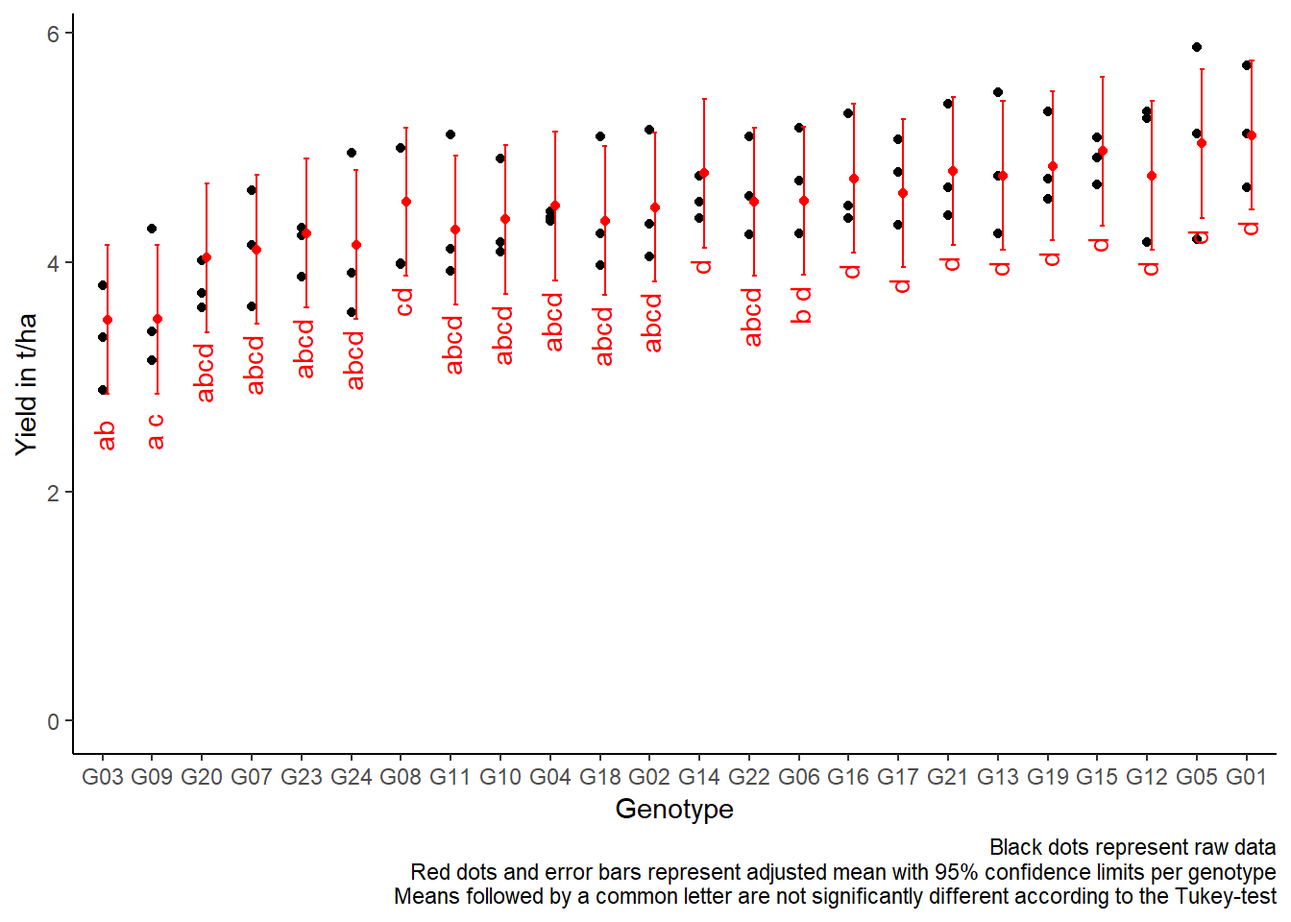
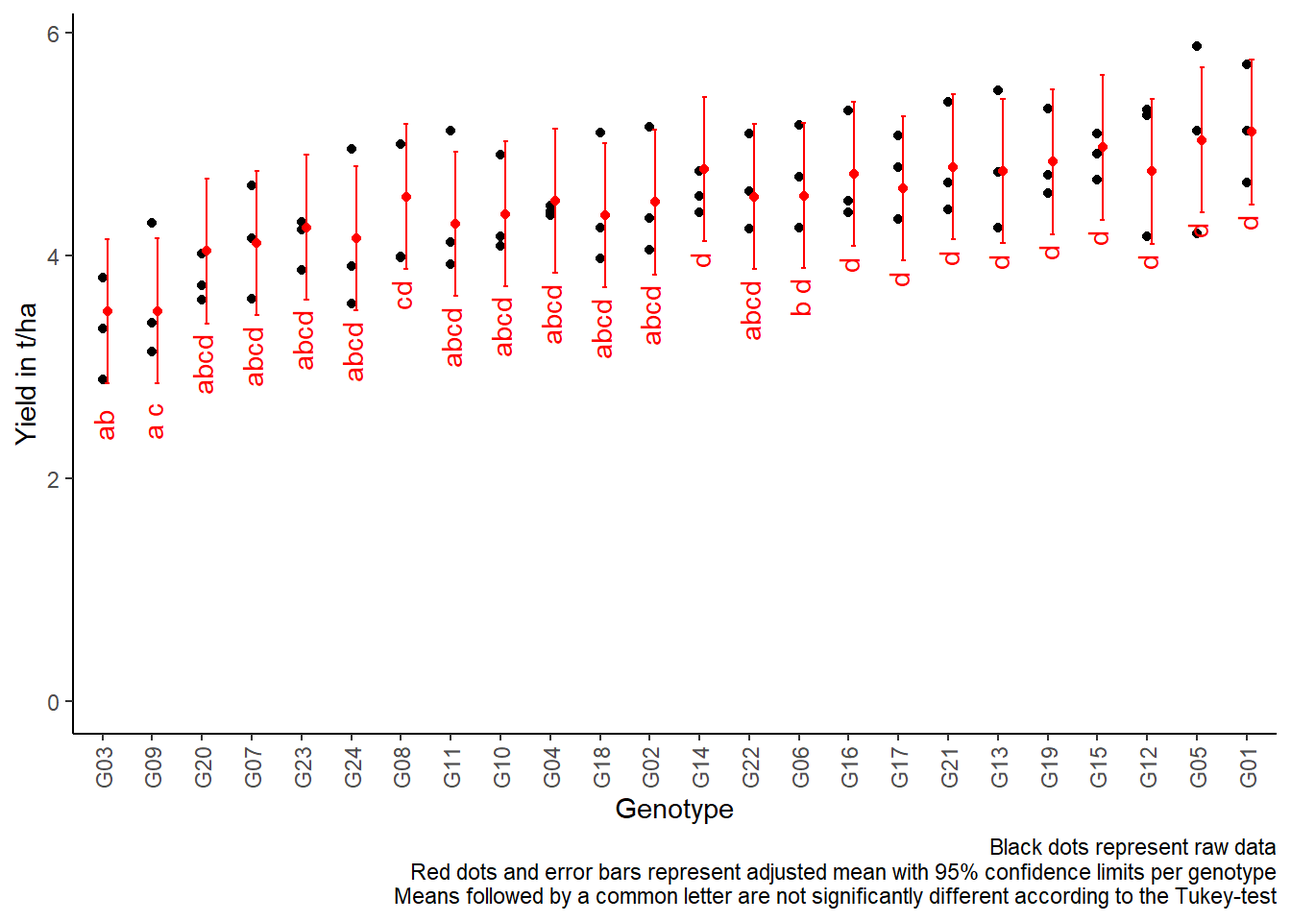
uniform wording ANOVAs

diff --git a/subsampling_Piepho1997.html b/subsampling_Piepho1997.html
@@ -632,7 +632,7 @@ div.tocify {
 <a class="sourceLine" id="cb1-2" title="2">pacman<span class="op">::</span><span class="kw">p_load</span>(readr, tidyverse, forcats, <span class="co"># data import and handling</span></a>
 <a class="sourceLine" id="cb1-3" title="3">               lme4, lmerTest,            <span class="co"># linear mixed model </span></a>
 <a class="sourceLine" id="cb1-4" title="4">               emmeans, multcomp,         <span class="co"># mean comparisons</span></a>
-<a class="sourceLine" id="cb1-5" title="5">               ggplot2, desplot)          <span class="co"># plots</span></a></code></pre></div>
+<a class="sourceLine" id="cb1-5" title="5">               ggplot2, desplot, see)     <span class="co"># plots</span></a></code></pre></div>
 <div id="data" class="section level1">
 <h1>Data</h1>
 <p>This example is taken from Chapter <em>“4.1 The sorghum experiment”</em> of the course material <a href="https://www.uni-hohenheim.de/en/module-catalogue/lehrveranstaltung/mixed-models-for-metric-data-3402-451" target="_blank">“Mixed models for metric data (3402-451)”</a> by <a href="https://www.uni-hohenheim.de/organisation?tx_base_lsfcontentadmin%5BlsfPerson%5D=6257" target="_blank">Prof. Dr. Hans-Peter Piepho</a>. It considers data published in <a href="https://acsess.onlinelibrary.wiley.com/doi/abs/10.2134/agronj1997.00021962008900050002x" target="_blank">Piepho (1997)</a> from a greenhouse experiment with sorghum, three intensities of double use of grain and leaves were tested: (1) control (grain only) <code>Ctrl</code>; (2) removal of all leaves except top leaf <code>Top1</code>; (3) removal of all leaves except top six leaves <code>Top6</code>.</p>
@@ -664,6 +664,93 @@ div.tocify {
 <div class="sourceCode" id="cb4"><pre class="sourceCode r"><code class="sourceCode r"><a class="sourceLine" id="cb4-1" title="1">dat &lt;-<span class="st"> </span>dat <span class="op">%&gt;%</span><span class="st"> </span></a>
 <a class="sourceLine" id="cb4-2" title="2"><span class="st">  </span><span class="kw">mutate_at</span>(<span class="kw">vars</span>(treat, block, plant), as.factor) <span class="op">%&gt;%</span><span class="st"> </span></a>
 <a class="sourceLine" id="cb4-3" title="3"><span class="st">  </span><span class="kw">mutate</span>(<span class="dt">treat =</span> <span class="kw">fct_relevel</span>(treat, <span class="kw">c</span>(<span class="st">&quot;Ctrl&quot;</span>, <span class="st">&quot;Top6&quot;</span>, <span class="st">&quot;Top1&quot;</span>)))</a></code></pre></div>
+</div>
+<div id="exploring" class="section level2">
+<h2>Exploring</h2>
+<p>In order to obtain a layout of the trial, we can use the <code>desplot()</code> function. Notice that for this we need two data columns that identify the <code>row</code> and <code>column</code> of each plot in the trial. In addition, we I would like to manually choose colors for the three treatments here and stick to them throughout the example:</p>
+<div class="sourceCode" id="cb5"><pre class="sourceCode r"><code class="sourceCode r"><a class="sourceLine" id="cb5-1" title="1">treat_colors &lt;-<span class="st"> </span><span class="kw">c</span>(<span class="dt">Ctrl=</span><span class="st">&quot;seagreen&quot;</span>, <span class="dt">Top6=</span><span class="st">&quot;seagreen3&quot;</span> , <span class="dt">Top1=</span><span class="st">&quot;seagreen2&quot;</span>)</a>
+<a class="sourceLine" id="cb5-2" title="2"></a>
+<a class="sourceLine" id="cb5-3" title="3"><span class="kw">desplot</span>(<span class="dt">data =</span> dat, <span class="dt">flip =</span> <span class="ot">TRUE</span>,</a>
+<a class="sourceLine" id="cb5-4" title="4">  <span class="dt">form =</span> treat <span class="op">~</span><span class="st"> </span>col <span class="op">+</span><span class="st"> </span>row <span class="op">|</span><span class="st"> </span>block,</a>
+<a class="sourceLine" id="cb5-5" title="5">  <span class="dt">col.regions =</span> treat_colors,</a>
+<a class="sourceLine" id="cb5-6" title="6">  <span class="dt">main =</span> <span class="st">&quot;Trial layout&quot;</span>, <span class="dt">show.key =</span> <span class="ot">TRUE</span>)</a></code></pre></div>
+<p><img src="subsampling_Piepho1997_files/figure-html/unnamed-chunk-5-1.png" width="672" /></p>
+<p>Looking at this, it seems like the trial was laid out as a randomized complete block design with 4 complete blocks. This, however, would mean that we have 3x4=12 observations in our dataset. Yet, our dataset has 120 observations.</p>
+<p>This is because what we are looking at in the plot above are only the 12 trays laid on the 4 tables that stood in the greenhouse. On top of each tray were 10 separate sorghum plant pots, respectively. To make this clear, we can plot this trial again as:</p>
+<div class="sourceCode" id="cb6"><pre class="sourceCode r"><code class="sourceCode r"><a class="sourceLine" id="cb6-1" title="1">treat_colors &lt;-<span class="st"> </span><span class="kw">c</span>(<span class="dt">Ctrl=</span><span class="st">&quot;seagreen&quot;</span>, <span class="dt">Top6=</span><span class="st">&quot;seagreen3&quot;</span> , <span class="dt">Top1=</span><span class="st">&quot;seagreen2&quot;</span>)</a>
+<a class="sourceLine" id="cb6-2" title="2"></a>
+<a class="sourceLine" id="cb6-3" title="3"><span class="kw">desplot</span>(<span class="dt">data =</span> dat, <span class="dt">flip =</span> <span class="ot">TRUE</span>,</a>
+<a class="sourceLine" id="cb6-4" title="4">  <span class="dt">form =</span> treat <span class="op">~</span><span class="st"> </span>col <span class="op">+</span><span class="st"> </span>row <span class="op">|</span><span class="st"> </span>block,</a>
+<a class="sourceLine" id="cb6-5" title="5">  <span class="dt">text =</span> plant, <span class="dt">cex =</span> <span class="dv">1</span>,</a>
+<a class="sourceLine" id="cb6-6" title="6">  <span class="dt">out1 =</span> treat, </a>
+<a class="sourceLine" id="cb6-7" title="7">  <span class="dt">out2 =</span> plant, <span class="dt">out2.gpar=</span><span class="kw">list</span>(<span class="dt">col=</span><span class="st">&quot;darkgrey&quot;</span>),</a>
+<a class="sourceLine" id="cb6-8" title="8">  <span class="dt">col.regions =</span> treat_colors,</a>
+<a class="sourceLine" id="cb6-9" title="9">  <span class="dt">main =</span> <span class="st">&quot;Trial layout&quot;</span>, <span class="dt">show.key =</span> <span class="ot">TRUE</span>)</a></code></pre></div>
+<p><img src="subsampling_Piepho1997_files/figure-html/unnamed-chunk-6-1.png" width="672" /></p>
+<p>At this point we must realize that there is an important difference between this trial and a regular RCBD (randomized complete block design) trial (<a href="RCBD_ClewerScarisbrick2001.html">like this one</a>). It is important to reflect that trays, not pots, are the randomization units. Clearly, pots are pseudo-replications, while trays are true replications. Another way of looking at the experiment is to consider plots (or measurements taken on pots) as repeated measurements on the same experimental unit (tray).</p>
+</div>
+<div id="plot" class="section level2">
+<h2>Plot</h2>
+<p>We can also create a plot to get a better feeling for the data. We here use the <code>geom_violindot()</code> extension to <code>ggplot2</code> from the <code>see</code> package as an alternative to boxplots.</p>
+<div class="sourceCode" id="cb7"><pre class="sourceCode r"><code class="sourceCode r"><a class="sourceLine" id="cb7-1" title="1"><span class="kw">ggplot</span>(<span class="dt">data =</span> dat, </a>
+<a class="sourceLine" id="cb7-2" title="2">       <span class="kw">aes</span>(<span class="dt">y=</span>TKW, <span class="dt">x=</span>treat, <span class="dt">fill=</span>treat)) <span class="op">+</span></a>
+<a class="sourceLine" id="cb7-3" title="3"><span class="st">  </span><span class="kw">geom_violindot</span>(<span class="dt">fill_dots =</span> <span class="st">&quot;black&quot;</span>, <span class="dt">size_dots =</span> <span class="dv">15</span>) <span class="op">+</span></a>
+<a class="sourceLine" id="cb7-4" title="4"><span class="st">  </span><span class="kw">scale_fill_manual</span>(<span class="dt">values =</span> treat_colors) <span class="op">+</span></a>
+<a class="sourceLine" id="cb7-5" title="5"><span class="st">  </span><span class="kw">ylim</span>(<span class="dv">0</span>, <span class="ot">NA</span>) <span class="op">+</span></a>
+<a class="sourceLine" id="cb7-6" title="6"><span class="st">  </span><span class="kw">theme_modern</span>()</a></code></pre></div>
+<p><img src="subsampling_Piepho1997_files/figure-html/unnamed-chunk-7-1.png" width="672" /></p>
+</div>
+</div>
+<div id="modelling" class="section level1">
+<h1>Modelling</h1>
+<p>Because of the way that 10 plants with the same treatment always stand together on a tray, our model ignores the fact that plants from the same tray will be correlated due to common environmental conditions. Clearly, if the treatments are the same on each tray, plants on the same tray are expected to be more similar than plants from different trays. The correlation of plants on the same tray can be modeled by adding a <strong>random tray effect</strong>. Notice that a tray is always all plant pots from one treatment (=<code>treat</code>) on one of the four tables (=<code>block</code>):</p>
+<div class="sourceCode" id="cb8"><pre class="sourceCode r"><code class="sourceCode r"><a class="sourceLine" id="cb8-1" title="1">mod &lt;-<span class="st"> </span><span class="kw">lmer</span>(TKW <span class="op">~</span><span class="st"> </span>treat <span class="op">+</span><span class="st"> </span>block <span class="op">+</span><span class="st"> </span>(<span class="dv">1</span><span class="op">|</span>block<span class="op">:</span>treat),</a>
+<a class="sourceLine" id="cb8-2" title="2">            <span class="dt">data=</span>dat)</a></code></pre></div>
+<blockquote>
+<p><strong>Why can’t I just get the mean value per tray and then use these in a regular RCBD analysis? There are four tray means per treatment (one for each block), so the means data has a total of twelve observations.</strong> Ideally, the means would have been computed from ten plants on each tray. However, some observations are missing, so some means are based on only nine or eight observations. It is known the the standard error of a mean decreases with the number of observations, so some means will be more accurate than others. This difference in acuracy cannot be accounted for by a simple analysis of means. In fact, the analysis of means is not strictly valid because heterogeneity of variance is ignored. We will see later how a mixed model can be used for a more refined analysis.</p>
+</blockquote>
+<div id="variance-component-estimates" class="section level2">
+<h2>Variance component estimates</h2>
+<p>We can extract the variance component estimates as follows:</p>
+<div class="sourceCode" id="cb9"><pre class="sourceCode r"><code class="sourceCode r"><a class="sourceLine" id="cb9-1" title="1">mod <span class="op">%&gt;%</span><span class="st"> </span></a>
+<a class="sourceLine" id="cb9-2" title="2"><span class="st">  </span><span class="kw">VarCorr</span>() <span class="op">%&gt;%</span><span class="st"> </span></a>
+<a class="sourceLine" id="cb9-3" title="3"><span class="st">  </span><span class="kw">as.data.frame</span>() <span class="op">%&gt;%</span><span class="st"> </span></a>
+<a class="sourceLine" id="cb9-4" title="4"><span class="st">  </span>dplyr<span class="op">::</span><span class="kw">select</span>(grp, vcov)</a></code></pre></div>
+<pre><code>##           grp     vcov
+## 1 block:treat  1.28148
+## 2    Residual 34.34461</code></pre>
+</div>
+<div id="anova" class="section level2">
+<h2>ANOVA</h2>
+<p>Thus, we can conduct an ANOVA for this model. As can be seen, the F-test of the ANOVA (using Kenward-Roger’s method for denominator degrees-of-freedom and F-statistic) does not find the <code>treat</code> effects to be statistically significant (p = 0.31 &gt; 0.05).</p>
+<div class="sourceCode" id="cb11"><pre class="sourceCode r"><code class="sourceCode r"><a class="sourceLine" id="cb11-1" title="1">mod <span class="op">%&gt;%</span><span class="st"> </span><span class="kw">anova</span>(<span class="dt">ddf=</span><span class="st">&quot;Kenward-Roger&quot;</span>)</a></code></pre></div>
+<pre><code>## Type III Analysis of Variance Table with Kenward-Roger&#39;s method
+##        Sum Sq Mean Sq NumDF  DenDF F value Pr(&gt;F)
+## treat  97.997  48.999     2 5.9920  1.4265 0.3114
+## block 114.613  38.204     3 5.9689  1.1123 0.4153</code></pre>
+</div>
+<div id="mean-comparisons" class="section level2">
+<h2>Mean comparisons</h2>
+<p>Analogous to the result from the F-test in the ANOVA, the comparing the means does not find any significant differences between the treatment means either:</p>
+<div class="sourceCode" id="cb13"><pre class="sourceCode r"><code class="sourceCode r"><a class="sourceLine" id="cb13-1" title="1">mean_comparisons &lt;-<span class="st"> </span>mod <span class="op">%&gt;%</span><span class="st"> </span></a>
+<a class="sourceLine" id="cb13-2" title="2"><span class="st">  </span><span class="kw">emmeans</span>(pairwise <span class="op">~</span><span class="st"> &quot;treat&quot;</span>,</a>
+<a class="sourceLine" id="cb13-3" title="3">          <span class="dt">adjust  =</span> <span class="st">&quot;tukey&quot;</span>,</a>
+<a class="sourceLine" id="cb13-4" title="4">          <span class="dt">lmer.df =</span> <span class="st">&quot;kenward-roger&quot;</span>) <span class="op">%&gt;%</span><span class="st"> </span></a>
+<a class="sourceLine" id="cb13-5" title="5"><span class="st">  </span><span class="kw">pluck</span>(<span class="st">&quot;emmeans&quot;</span>) <span class="op">%&gt;%</span></a>
+<a class="sourceLine" id="cb13-6" title="6"><span class="st">  </span><span class="kw">cld</span>(<span class="dt">details =</span> <span class="ot">TRUE</span>, <span class="dt">Letters =</span> letters) <span class="co"># add letter display</span></a>
+<a class="sourceLine" id="cb13-7" title="7"></a>
+<a class="sourceLine" id="cb13-8" title="8">mean_comparisons<span class="op">$</span>emmeans</a></code></pre></div>
+<pre><code>##  treat emmean   SE   df lower.CL upper.CL .group
+##  Top1    30.6 1.13 6.06     26.9     34.3  a    
+##  Top6    31.2 1.15 6.61     27.5     34.8  a    
+##  Ctrl    33.1 1.10 5.39     29.4     36.9  a    
+## 
+## Results are averaged over the levels of: block 
+## Degrees-of-freedom method: kenward-roger 
+## Confidence level used: 0.95 
+## Conf-level adjustment: sidak method for 3 estimates 
+## P value adjustment: tukey method for comparing a family of 3 estimates 
+## significance level used: alpha = 0.05</code></pre>
 </div>
 </div>
 

diff --git a/alpha_JohnWilliams1995.html b/alpha_JohnWilliams1995.html
@@ -756,7 +756,8 @@ div.tocify {
 <a class="sourceLine" id="cb10-10" title="10"><span class="st">  </span><span class="kw">geom_point</span>(<span class="kw">aes</span>(<span class="dt">y =</span> mean_yield), <span class="dt">color =</span> <span class="st">&quot;cornflowerblue&quot;</span>) <span class="op">+</span><span class="st"> </span><span class="co"># scatter plot mean</span></a>
 <a class="sourceLine" id="cb10-11" title="11"><span class="st">  </span><span class="kw">ylim</span>(<span class="dv">0</span>, <span class="ot">NA</span>) <span class="op">+</span><span class="st">   </span><span class="co"># force y-axis to start at 0</span></a>
 <a class="sourceLine" id="cb10-12" title="12"><span class="st">  </span><span class="kw">labs</span>(<span class="dt">caption =</span> <span class="st">&quot;Blue dots represent arithmetic mean per genotype&quot;</span>) <span class="op">+</span></a>
-<a class="sourceLine" id="cb10-13" title="13"><span class="st">  </span><span class="kw">theme_classic</span>() <span class="co"># clearer plot format </span></a></code></pre></div>
+<a class="sourceLine" id="cb10-13" title="13"><span class="st">  </span><span class="kw">theme_classic</span>() <span class="op">+</span><span class="st"> </span><span class="co"># clearer plot format </span></a>
+<a class="sourceLine" id="cb10-14" title="14"><span class="st">  </span><span class="kw">theme</span>(<span class="dt">axis.text.x =</span> <span class="kw">element_text</span>(<span class="dt">angle=</span><span class="dv">90</span>, <span class="dt">vjust=</span><span class="fl">0.5</span>)) <span class="co"># rotate x-axis labels</span></a></code></pre></div>
 <p><img src="alpha_JohnWilliams1995_files/figure-html/unnamed-chunk-8-1.png" width="672" style="display: block; margin: auto;" /></p>
 </div>
 </div>
@@ -772,12 +773,11 @@ div.tocify {
 <a class="sourceLine" id="cb11-5" title="5"></a>
 <a class="sourceLine" id="cb11-6" title="6">mod.fb <span class="op">%&gt;%</span></a>
 <a class="sourceLine" id="cb11-7" title="7"><span class="st">  </span><span class="kw">emmeans</span>(pairwise <span class="op">~</span><span class="st"> &quot;gen&quot;</span>,</a>
-<a class="sourceLine" id="cb11-8" title="8">          <span class="dt">adjust =</span> <span class="st">&quot;tukey&quot;</span>,</a>
-<a class="sourceLine" id="cb11-9" title="9">          <span class="dt">lmer.df =</span> <span class="st">&quot;kenward-roger&quot;</span>) <span class="op">%&gt;%</span></a>
-<a class="sourceLine" id="cb11-10" title="10"><span class="st">  </span><span class="kw">pluck</span>(<span class="st">&quot;contrasts&quot;</span>) <span class="op">%&gt;%</span><span class="st"> </span><span class="co"># extract diffs</span></a>
-<a class="sourceLine" id="cb11-11" title="11"><span class="st">  </span>as_tibble <span class="op">%&gt;%</span><span class="st"> </span><span class="co"># format to table</span></a>
-<a class="sourceLine" id="cb11-12" title="12"><span class="st">  </span><span class="kw">pluck</span>(<span class="st">&quot;SE&quot;</span>) <span class="op">%&gt;%</span><span class="st"> </span><span class="co"># extract s.e.d. column</span></a>
-<a class="sourceLine" id="cb11-13" title="13"><span class="st">  </span>mean <span class="co"># get arithmetic mean</span></a></code></pre></div>
+<a class="sourceLine" id="cb11-8" title="8">          <span class="dt">adjust =</span> <span class="st">&quot;tukey&quot;</span>) <span class="op">%&gt;%</span></a>
+<a class="sourceLine" id="cb11-9" title="9"><span class="st">  </span><span class="kw">pluck</span>(<span class="st">&quot;contrasts&quot;</span>) <span class="op">%&gt;%</span><span class="st"> </span><span class="co"># extract diffs</span></a>
+<a class="sourceLine" id="cb11-10" title="10"><span class="st">  </span>as_tibble <span class="op">%&gt;%</span><span class="st"> </span><span class="co"># format to table</span></a>
+<a class="sourceLine" id="cb11-11" title="11"><span class="st">  </span><span class="kw">pluck</span>(<span class="st">&quot;SE&quot;</span>) <span class="op">%&gt;%</span><span class="st"> </span><span class="co"># extract s.e.d. column</span></a>
+<a class="sourceLine" id="cb11-12" title="12"><span class="st">  </span><span class="kw">mean</span>() <span class="co"># get arithmetic mean</span></a></code></pre></div>
 <pre><code>## [1] 0.2766288</code></pre>
 </div>
 <div class="col-md-6">
@@ -793,22 +793,21 @@ div.tocify {
 <a class="sourceLine" id="cb13-10" title="10"><span class="st">  </span><span class="kw">pluck</span>(<span class="st">&quot;contrasts&quot;</span>) <span class="op">%&gt;%</span><span class="st"> </span><span class="co"># extract diffs</span></a>
 <a class="sourceLine" id="cb13-11" title="11"><span class="st">  </span>as_tibble <span class="op">%&gt;%</span><span class="st"> </span><span class="co"># format to table</span></a>
 <a class="sourceLine" id="cb13-12" title="12"><span class="st">  </span><span class="kw">pluck</span>(<span class="st">&quot;SE&quot;</span>) <span class="op">%&gt;%</span><span class="st"> </span><span class="co"># extract s.e.d. column</span></a>
-<a class="sourceLine" id="cb13-13" title="13"><span class="st">  </span>mean <span class="co"># get arithmetic mean</span></a></code></pre></div>
+<a class="sourceLine" id="cb13-13" title="13"><span class="st">  </span><span class="kw">mean</span>() <span class="co"># get arithmetic mean</span></a></code></pre></div>
 <pre><code>## [1] 0.2700388</code></pre>
 </div>
 </div>
 <p>As a result, we find that the model with random block effects has the smaller s.e.d. and is therefore more precise in terms of comparing genotypes.</p>
 <div id="anova" class="section level2">
 <h2>ANOVA</h2>
-<p>Thus, we can conduct an ANOVA for this model.</p>
-<div class="sourceCode" id="cb15"><pre class="sourceCode r"><code class="sourceCode r"><a class="sourceLine" id="cb15-1" title="1">mod.rb <span class="op">%&gt;%</span><span class="st"> </span><span class="kw">anova</span>()</a></code></pre></div>
-<pre><code>## Type III Analysis of Variance Table with Satterthwaite&#39;s method
+<p>Thus, we can conduct an ANOVA for this model. As can be seen, the F-test of the ANOVA (using Kenward-Roger’s method for denominator degrees-of-freedom and F-statistic) finds the <code>gen</code> effects to be statistically significant (p&lt;0.001).</p>
+<div class="sourceCode" id="cb15"><pre class="sourceCode r"><code class="sourceCode r"><a class="sourceLine" id="cb15-1" title="1">mod.rb <span class="op">%&gt;%</span><span class="st"> </span><span class="kw">anova</span>(<span class="dt">ddf=</span><span class="st">&quot;Kenward-Roger&quot;</span>)</a></code></pre></div>
+<pre><code>## Type III Analysis of Variance Table with Kenward-Roger&#39;s method
 ##      Sum Sq Mean Sq NumDF  DenDF F value    Pr(&gt;F)    
-## gen 10.6786 0.46429    23 34.736  5.4478 4.376e-06 ***
-## rep  1.5703 0.78513     2 10.394  9.2124  0.004992 ** 
+## gen 10.5070 0.45683    23 35.498  5.3628 4.496e-06 ***
+## rep  1.5703 0.78513     2 11.519  9.2124  0.004078 ** 
 ## ---
 ## Signif. codes:  0 &#39;***&#39; 0.001 &#39;**&#39; 0.01 &#39;*&#39; 0.05 &#39;.&#39; 0.1 &#39; &#39; 1</code></pre>
-<p>As can be seen, the F-test finds the <code>gen</code> effects to be statistically significant (p &lt; 0.05).</p>
 </div>
 <div id="mean-comparisons" class="section level2">
 <h2>Mean comparisons</h2>
@@ -895,7 +894,8 @@ div.tocify {
 <a class="sourceLine" id="cb19-34" title="34"><span class="st">  </span><span class="kw">labs</span>(<span class="dt">caption =</span> <span class="st">&quot;Black dots represent raw data</span></a>
 <a class="sourceLine" id="cb19-35" title="35"><span class="st">       Red dots and error bars represent adjusted mean with 95% confidence limits per genotype</span></a>
 <a class="sourceLine" id="cb19-36" title="36"><span class="st">       Means followed by a common letter are not significantly different according to the Tukey-test&quot;</span>) <span class="op">+</span></a>
-<a class="sourceLine" id="cb19-37" title="37"><span class="st">  </span><span class="kw">theme_classic</span>() <span class="co"># clearer plot format </span></a></code></pre></div>
+<a class="sourceLine" id="cb19-37" title="37"><span class="st">  </span><span class="kw">theme_classic</span>() <span class="op">+</span><span class="st"> </span><span class="co"># clearer plot format </span></a>
+<a class="sourceLine" id="cb19-38" title="38"><span class="st">  </span><span class="kw">theme</span>(<span class="dt">axis.text.x =</span> <span class="kw">element_text</span>(<span class="dt">angle=</span><span class="dv">90</span>, <span class="dt">vjust=</span><span class="fl">0.5</span>)) <span class="co"># rotate x-axis</span></a></code></pre></div>
 <p><img src="alpha_JohnWilliams1995_files/figure-html/unnamed-chunk-12-1.png" width="672" /></p>
 </div>
 </div>

diff --git a/augmented_Pattersen1994.html b/augmented_Pattersen1994.html
@@ -773,12 +773,11 @@ div.tocify {
 <a class="sourceLine" id="cb11-4" title="4"></a>
 <a class="sourceLine" id="cb11-5" title="5">mod.fb <span class="op">%&gt;%</span></a>
 <a class="sourceLine" id="cb11-6" title="6"><span class="st">  </span><span class="kw">emmeans</span>(pairwise <span class="op">~</span><span class="st"> &quot;gen&quot;</span>,</a>
-<a class="sourceLine" id="cb11-7" title="7">          <span class="dt">adjust =</span> <span class="st">&quot;tukey&quot;</span>,</a>
-<a class="sourceLine" id="cb11-8" title="8">          <span class="dt">lmer.df =</span> <span class="st">&quot;kenward-roger&quot;</span>) <span class="op">%&gt;%</span></a>
-<a class="sourceLine" id="cb11-9" title="9"><span class="st">  </span><span class="kw">pluck</span>(<span class="st">&quot;contrasts&quot;</span>) <span class="op">%&gt;%</span><span class="st"> </span><span class="co"># extract diffs</span></a>
-<a class="sourceLine" id="cb11-10" title="10"><span class="st">  </span>as_tibble <span class="op">%&gt;%</span><span class="st"> </span><span class="co"># format to table</span></a>
-<a class="sourceLine" id="cb11-11" title="11"><span class="st">  </span><span class="kw">pluck</span>(<span class="st">&quot;SE&quot;</span>) <span class="op">%&gt;%</span><span class="st"> </span><span class="co"># extract s.e.d. column</span></a>
-<a class="sourceLine" id="cb11-12" title="12"><span class="st">  </span>mean <span class="co"># get arithmetic mean</span></a></code></pre></div>
+<a class="sourceLine" id="cb11-7" title="7">          <span class="dt">adjust =</span> <span class="st">&quot;tukey&quot;</span>) <span class="op">%&gt;%</span></a>
+<a class="sourceLine" id="cb11-8" title="8"><span class="st">  </span><span class="kw">pluck</span>(<span class="st">&quot;contrasts&quot;</span>) <span class="op">%&gt;%</span><span class="st"> </span><span class="co"># extract diffs</span></a>
+<a class="sourceLine" id="cb11-9" title="9"><span class="st">  </span>as_tibble <span class="op">%&gt;%</span><span class="st"> </span><span class="co"># format to table</span></a>
+<a class="sourceLine" id="cb11-10" title="10"><span class="st">  </span><span class="kw">pluck</span>(<span class="st">&quot;SE&quot;</span>) <span class="op">%&gt;%</span><span class="st"> </span><span class="co"># extract s.e.d. column</span></a>
+<a class="sourceLine" id="cb11-11" title="11"><span class="st">  </span><span class="kw">mean</span>() <span class="co"># get arithmetic mean</span></a></code></pre></div>
 <pre><code>## [1] 461.3938</code></pre>
 </div>
 <div class="col-md-6">
@@ -793,14 +792,14 @@ div.tocify {
 <a class="sourceLine" id="cb13-9" title="9"><span class="st">  </span><span class="kw">pluck</span>(<span class="st">&quot;contrasts&quot;</span>) <span class="op">%&gt;%</span><span class="st"> </span><span class="co"># extract diffs</span></a>
 <a class="sourceLine" id="cb13-10" title="10"><span class="st">  </span>as_tibble <span class="op">%&gt;%</span><span class="st"> </span><span class="co"># format to table</span></a>
 <a class="sourceLine" id="cb13-11" title="11"><span class="st">  </span><span class="kw">pluck</span>(<span class="st">&quot;SE&quot;</span>) <span class="op">%&gt;%</span><span class="st"> </span><span class="co"># extract s.e.d. column</span></a>
-<a class="sourceLine" id="cb13-12" title="12"><span class="st">  </span>mean <span class="co"># get arithmetic mean</span></a></code></pre></div>
+<a class="sourceLine" id="cb13-12" title="12"><span class="st">  </span><span class="kw">mean</span>() <span class="co"># get arithmetic mean</span></a></code></pre></div>
 <pre><code>## [1] 462.0431</code></pre>
 </div>
 </div>
 <p>As a result, we find that the model with fixed block effects has the slightly smaller s.e.d. and is therefore more precise in terms of comparing genotypes.</p>
 <div id="anova" class="section level2">
 <h2>ANOVA</h2>
-<p>Thus, we can conduct an ANOVA for this model.</p>
+<p>Thus, we can conduct an ANOVA for this model. As can be seen, the F-test of the ANOVA finds the <code>gen</code> effects to be statistically significant (p = 0.0091 &lt; 0.05).</p>
 <div class="sourceCode" id="cb15"><pre class="sourceCode r"><code class="sourceCode r"><a class="sourceLine" id="cb15-1" title="1">mod.fb <span class="op">%&gt;%</span><span class="st"> </span><span class="kw">anova</span>()</a></code></pre></div>
 <pre><code>## Analysis of Variance Table
 ## 
@@ -811,19 +810,17 @@ div.tocify {
 ## Residuals 10   911027   91103                      
 ## ---
 ## Signif. codes:  0 &#39;***&#39; 0.001 &#39;**&#39; 0.01 &#39;*&#39; 0.05 &#39;.&#39; 0.1 &#39; &#39; 1</code></pre>
-<p>As can be seen, the F-test finds the <code>gen</code> effects to be statistically significant (p = 0.009 &lt; 0.05).</p>
 </div>
 <div id="mean-comparisons" class="section level2">
 <h2>Mean comparisons</h2>
 <p>It can be seen that while some genotypes have a higher yield than others, no differences are found to be statistically significant here. Accordingly, notice that <em>e.g.</em> for <code>gen 11</code>, which is the genotype with the highest adjusted yield mean (=3055), its lower confidence limit (=1587) includes <code>gen 12</code>, which is the genotype with the lowest adjusted yield mean (=1632).</p>
 <div class="sourceCode" id="cb17"><pre class="sourceCode r"><code class="sourceCode r"><a class="sourceLine" id="cb17-1" title="1">mean_comparisons &lt;-<span class="st"> </span>mod.fb <span class="op">%&gt;%</span></a>
 <a class="sourceLine" id="cb17-2" title="2"><span class="st">  </span><span class="kw">emmeans</span>(pairwise <span class="op">~</span><span class="st"> &quot;gen&quot;</span>,</a>
-<a class="sourceLine" id="cb17-3" title="3">          <span class="dt">adjust =</span> <span class="st">&quot;tukey&quot;</span>,</a>
-<a class="sourceLine" id="cb17-4" title="4">          <span class="dt">lmer.df =</span> <span class="st">&quot;kenward-roger&quot;</span>) <span class="op">%&gt;%</span></a>
-<a class="sourceLine" id="cb17-5" title="5"><span class="st">  </span><span class="kw">pluck</span>(<span class="st">&quot;emmeans&quot;</span>) <span class="op">%&gt;%</span></a>
-<a class="sourceLine" id="cb17-6" title="6"><span class="st">  </span><span class="kw">cld</span>(<span class="dt">details =</span> <span class="ot">TRUE</span>, <span class="dt">Letters =</span> letters) <span class="co"># add letter display</span></a>
-<a class="sourceLine" id="cb17-7" title="7"></a>
-<a class="sourceLine" id="cb17-8" title="8">mean_comparisons<span class="op">$</span>emmeans <span class="co"># adjusted genotype means</span></a></code></pre></div>
+<a class="sourceLine" id="cb17-3" title="3">          <span class="dt">adjust =</span> <span class="st">&quot;tukey&quot;</span>) <span class="op">%&gt;%</span></a>
+<a class="sourceLine" id="cb17-4" title="4"><span class="st">  </span><span class="kw">pluck</span>(<span class="st">&quot;emmeans&quot;</span>) <span class="op">%&gt;%</span></a>
+<a class="sourceLine" id="cb17-5" title="5"><span class="st">  </span><span class="kw">cld</span>(<span class="dt">details =</span> <span class="ot">TRUE</span>, <span class="dt">Letters =</span> letters) <span class="co"># add letter display</span></a>
+<a class="sourceLine" id="cb17-6" title="6"></a>
+<a class="sourceLine" id="cb17-7" title="7">mean_comparisons<span class="op">$</span>emmeans <span class="co"># adjusted genotype means</span></a></code></pre></div>
 <pre><code>##  gen emmean  SE df lower.CL upper.CL .group
 ##  12    1632 341 10      164     3100  a    
 ##  06    1823 341 10      355     3291  a    

diff --git a/rowcol_KemptonFox1997.html b/rowcol_KemptonFox1997.html
@@ -750,12 +750,11 @@ div.tocify {
 <a class="sourceLine" id="cb10-6" title="6"></a>
 <a class="sourceLine" id="cb10-7" title="7">mod.fb <span class="op">%&gt;%</span></a>
 <a class="sourceLine" id="cb10-8" title="8"><span class="st">  </span><span class="kw">emmeans</span>(pairwise <span class="op">~</span><span class="st"> &quot;gen&quot;</span>,</a>
-<a class="sourceLine" id="cb10-9" title="9">          <span class="dt">adjust =</span> <span class="st">&quot;tukey&quot;</span>,</a>
-<a class="sourceLine" id="cb10-10" title="10">          <span class="dt">lmer.df =</span> <span class="st">&quot;kenward-roger&quot;</span>) <span class="op">%&gt;%</span></a>
-<a class="sourceLine" id="cb10-11" title="11"><span class="st">  </span><span class="kw">pluck</span>(<span class="st">&quot;contrasts&quot;</span>) <span class="op">%&gt;%</span><span class="st"> </span><span class="co"># extract diffs</span></a>
-<a class="sourceLine" id="cb10-12" title="12"><span class="st">  </span>as_tibble <span class="op">%&gt;%</span><span class="st"> </span><span class="co"># format to table</span></a>
-<a class="sourceLine" id="cb10-13" title="13"><span class="st">  </span><span class="kw">pluck</span>(<span class="st">&quot;SE&quot;</span>) <span class="op">%&gt;%</span><span class="st"> </span><span class="co"># extract s.e.d. column</span></a>
-<a class="sourceLine" id="cb10-14" title="14"><span class="st">  </span>mean <span class="co"># get arithmetic mean</span></a></code></pre></div>
+<a class="sourceLine" id="cb10-9" title="9">          <span class="dt">adjust =</span> <span class="st">&quot;tukey&quot;</span>) <span class="op">%&gt;%</span></a>
+<a class="sourceLine" id="cb10-10" title="10"><span class="st">  </span><span class="kw">pluck</span>(<span class="st">&quot;contrasts&quot;</span>) <span class="op">%&gt;%</span><span class="st"> </span><span class="co"># extract diffs</span></a>
+<a class="sourceLine" id="cb10-11" title="11"><span class="st">  </span>as_tibble <span class="op">%&gt;%</span><span class="st"> </span><span class="co"># format to table</span></a>
+<a class="sourceLine" id="cb10-12" title="12"><span class="st">  </span><span class="kw">pluck</span>(<span class="st">&quot;SE&quot;</span>) <span class="op">%&gt;%</span><span class="st"> </span><span class="co"># extract s.e.d. column</span></a>
+<a class="sourceLine" id="cb10-13" title="13"><span class="st">  </span><span class="kw">mean</span>() <span class="co"># get arithmetic mean</span></a></code></pre></div>
 <pre><code>## [1] 0.4083057</code></pre>
 </div>
 <div class="col-md-6">
@@ -772,22 +771,21 @@ div.tocify {
 <a class="sourceLine" id="cb12-11" title="11"><span class="st">  </span><span class="kw">pluck</span>(<span class="st">&quot;contrasts&quot;</span>) <span class="op">%&gt;%</span><span class="st"> </span><span class="co"># extract diffs</span></a>
 <a class="sourceLine" id="cb12-12" title="12"><span class="st">  </span>as_tibble <span class="op">%&gt;%</span><span class="st"> </span><span class="co"># format to table</span></a>
 <a class="sourceLine" id="cb12-13" title="13"><span class="st">  </span><span class="kw">pluck</span>(<span class="st">&quot;SE&quot;</span>) <span class="op">%&gt;%</span><span class="st"> </span><span class="co"># extract s.e.d. column</span></a>
-<a class="sourceLine" id="cb12-14" title="14"><span class="st">  </span>mean <span class="co"># get arithmetic mean</span></a></code></pre></div>
+<a class="sourceLine" id="cb12-14" title="14"><span class="st">  </span><span class="kw">mean</span>() <span class="co"># get arithmetic mean</span></a></code></pre></div>
 <pre><code>## [1] 0.4020136</code></pre>
 </div>
 </div>
 <p>As a result, we find that the model with random row and column effects has the smaller s.e.d. and is therefore more precise in terms of comparing genotypes.</p>
 <div id="anova" class="section level2">
 <h2>ANOVA</h2>
-<p>Thus, we can conduct an ANOVA for this model.</p>
-<div class="sourceCode" id="cb14"><pre class="sourceCode r"><code class="sourceCode r"><a class="sourceLine" id="cb14-1" title="1">mod.rb <span class="op">%&gt;%</span><span class="st"> </span><span class="kw">anova</span>()</a></code></pre></div>
-<pre><code>## Type III Analysis of Variance Table with Satterthwaite&#39;s method
+<p>Thus, we can conduct an ANOVA for this model. As can be seen, the F-test of the ANOVA (using Kenward-Roger’s method for denominator degrees-of-freedom and F-statistic) finds the <code>gen</code> effects to be statistically significant (p = 0.0025 &lt; 0.05).</p>
+<div class="sourceCode" id="cb14"><pre class="sourceCode r"><code class="sourceCode r"><a class="sourceLine" id="cb14-1" title="1">mod.rb <span class="op">%&gt;%</span><span class="st"> </span><span class="kw">anova</span>(<span class="dt">ddf=</span><span class="st">&quot;Kenward-Roger&quot;</span>)</a></code></pre></div>
+<pre><code>## Type III Analysis of Variance Table with Kenward-Roger&#39;s method
 ##      Sum Sq Mean Sq NumDF  DenDF F value   Pr(&gt;F)   
-## gen 15.0149 0.44161    34 13.770  4.8988 0.001465 **
-## rep  1.5606 1.56061     1 12.651 17.3119 0.001183 **
+## gen 14.4965 0.42637    34 12.358  4.8394 0.002515 **
+## rep  1.5596 1.55956     1 13.009 17.3002 0.001120 **
 ## ---
 ## Signif. codes:  0 &#39;***&#39; 0.001 &#39;**&#39; 0.01 &#39;*&#39; 0.05 &#39;.&#39; 0.1 &#39; &#39; 1</code></pre>
-<p>As can be seen, the F-test finds the <code>gen</code> effects to be statistically significant (p = 0.0015 &lt; 0.05).</p>
 </div>
 <div id="mean-comparisons" class="section level2">
 <h2>Mean comparisons</h2>

diff --git a/splitplot_GomezGomez1984.html b/splitplot_GomezGomez1984.html
@@ -731,9 +731,9 @@ div.tocify {
 <a class="sourceLine" id="cb11-3" title="3">            <span class="dt">data=</span>dat)</a></code></pre></div>
 <div id="anova" class="section level2">
 <h2>ANOVA</h2>
-<p>Thus, we can conduct an ANOVA for this model.</p>
-<div class="sourceCode" id="cb12"><pre class="sourceCode r"><code class="sourceCode r"><a class="sourceLine" id="cb12-1" title="1">mod <span class="op">%&gt;%</span><span class="st"> </span><span class="kw">anova</span>()</a></code></pre></div>
-<pre><code>## Type III Analysis of Variance Table with Satterthwaite&#39;s method
+<p>Thus, we can conduct an ANOVA for this model. As can be seen, the F-test of the ANOVA (using Kenward-Roger’s method for denominator degrees-of-freedom and F-statistic) finds the <code>G:N</code> interaction effects to be statistically significant (p&lt;0.001).</p>
+<div class="sourceCode" id="cb12"><pre class="sourceCode r"><code class="sourceCode r"><a class="sourceLine" id="cb12-1" title="1">mod <span class="op">%&gt;%</span><span class="st"> </span><span class="kw">anova</span>(<span class="dt">ddf=</span><span class="st">&quot;Kenward-Roger&quot;</span>)</a></code></pre></div>
+<pre><code>## Type III Analysis of Variance Table with Kenward-Roger&#39;s method
 ##       Sum Sq  Mean Sq NumDF DenDF F value    Pr(&gt;F)    
 ## G   89885075 29961692     3    36 85.7416 &lt; 2.2e-16 ***
 ## N   19192886  3838577     5    10 10.9849 0.0008277 ***
@@ -741,7 +741,7 @@ div.tocify {
 ## G:N 69378044  4625203    15    36 13.2360 2.078e-10 ***
 ## ---
 ## Signif. codes:  0 &#39;***&#39; 0.001 &#39;**&#39; 0.01 &#39;*&#39; 0.05 &#39;.&#39; 0.1 &#39; &#39; 1</code></pre>
-<p>As can be seen, the F-test finds the <code>G:N</code> interaction effects to be statistically significant (p &lt; 0.05). As a result, we should compare the adjusted means for all genotype-nitrogen level combinations.</p>
+<p>Therefore, we should compare the adjusted means for all genotype-nitrogen level combinations.</p>
 </div>
 <div id="mean-comparisons" class="section level2">
 <h2>Mean comparisons</h2>
@@ -750,7 +750,7 @@ div.tocify {
 <div class="sourceCode" id="cb14"><pre class="sourceCode r"><code class="sourceCode r"><a class="sourceLine" id="cb14-1" title="1">all_mean_comparisons &lt;-<span class="st"> </span>mod <span class="op">%&gt;%</span></a>
 <a class="sourceLine" id="cb14-2" title="2"><span class="st">  </span><span class="kw">emmeans</span>(pairwise <span class="op">~</span><span class="st"> </span>N<span class="op">:</span>G,</a>
 <a class="sourceLine" id="cb14-3" title="3">          <span class="dt">adjust =</span> <span class="st">&quot;tukey&quot;</span>,</a>
-<a class="sourceLine" id="cb14-4" title="4">          <span class="dt">lmer.df =</span> <span class="st">&quot;kenward-roger&quot;</span>) <span class="op">%&gt;%</span><span class="st"> </span><span class="co"># alternative: lmer.df = &quot;satterthwaite&quot;</span></a>
+<a class="sourceLine" id="cb14-4" title="4">          <span class="dt">lmer.df =</span> <span class="st">&quot;kenward-roger&quot;</span>) <span class="op">%&gt;%</span></a>
 <a class="sourceLine" id="cb14-5" title="5"><span class="st">  </span><span class="kw">pluck</span>(<span class="st">&quot;emmeans&quot;</span>) <span class="op">%&gt;%</span></a>
 <a class="sourceLine" id="cb14-6" title="6"><span class="st">  </span><span class="kw">cld</span>(<span class="dt">details =</span> <span class="ot">TRUE</span>, <span class="dt">Letters =</span> letters) <span class="co"># add letter display</span></a>
 <a class="sourceLine" id="cb14-7" title="7"></a>
@@ -793,7 +793,7 @@ div.tocify {
 <div class="sourceCode" id="cb16"><pre class="sourceCode r"><code class="sourceCode r"><a class="sourceLine" id="cb16-1" title="1">withinG_mean_comparisons &lt;-<span class="st"> </span>mod <span class="op">%&gt;%</span></a>
 <a class="sourceLine" id="cb16-2" title="2"><span class="st">  </span><span class="kw">emmeans</span>(pairwise <span class="op">~</span><span class="st"> </span>N <span class="op">|</span><span class="st"> </span>G,</a>
 <a class="sourceLine" id="cb16-3" title="3">          <span class="dt">adjust =</span> <span class="st">&quot;tukey&quot;</span>,</a>
-<a class="sourceLine" id="cb16-4" title="4">          <span class="dt">lmer.df =</span> <span class="st">&quot;kenward-roger&quot;</span>) <span class="op">%&gt;%</span><span class="st"> </span><span class="co"># alternative: lmer.df = &quot;satterthwaite&quot;</span></a>
+<a class="sourceLine" id="cb16-4" title="4">          <span class="dt">lmer.df =</span> <span class="st">&quot;kenward-roger&quot;</span>) <span class="op">%&gt;%</span></a>
 <a class="sourceLine" id="cb16-5" title="5"><span class="st">  </span><span class="kw">pluck</span>(<span class="st">&quot;emmeans&quot;</span>) <span class="op">%&gt;%</span></a>
 <a class="sourceLine" id="cb16-6" title="6"><span class="st">  </span><span class="kw">cld</span>(<span class="dt">details =</span> <span class="ot">TRUE</span>, <span class="dt">Letters =</span> letters) <span class="co"># add letter display</span></a>
 <a class="sourceLine" id="cb16-7" title="7"></a>

diff --git a/latsquare_Bridges1989.html b/latsquare_Bridges1989.html
@@ -737,7 +737,7 @@ div.tocify {
 <div class="sourceCode" id="cb13"><pre class="sourceCode r"><code class="sourceCode r"><a class="sourceLine" id="cb13-1" title="1">mod &lt;-<span class="st"> </span><span class="kw">lm</span>(yield <span class="op">~</span><span class="st"> </span>gen <span class="op">+</span><span class="st"> </span>rowF <span class="op">+</span><span class="st"> </span>colF, <span class="dt">data =</span> dat)</a></code></pre></div>
 <div id="anova" class="section level2">
 <h2>ANOVA</h2>
-<p>Moreover, we can conduct an ANOVA for this model.</p>
+<p>Thus, we can conduct an ANOVA for this model. As can be seen, the F-test of the ANOVA finds the <code>gen</code> effects to be statistically significant (p = 0.011 &lt; 0.05).</p>
 <div class="sourceCode" id="cb14"><pre class="sourceCode r"><code class="sourceCode r"><a class="sourceLine" id="cb14-1" title="1">mod <span class="op">%&gt;%</span><span class="st"> </span><span class="kw">anova</span>()</a></code></pre></div>
 <pre><code>## Analysis of Variance Table
 ## 
@@ -749,7 +749,6 @@ div.tocify {
 ## Residuals  6  281.12   46.85                  
 ## ---
 ## Signif. codes:  0 &#39;***&#39; 0.001 &#39;**&#39; 0.01 &#39;*&#39; 0.05 &#39;.&#39; 0.1 &#39; &#39; 1</code></pre>
-<p>As can be seen, the F-test finds the <code>gen</code> effects to be statistically significant (p = 0.011 &lt; 0.05).</p>
 </div>
 <div id="mean-comparisons" class="section level2">
 <h2>Mean comparisons</h2>

diff --git a/RCBD_ClewerScarisbrick2001.html b/RCBD_ClewerScarisbrick2001.html
@@ -727,7 +727,7 @@ div.tocify {
 <div class="sourceCode" id="cb13"><pre class="sourceCode r"><code class="sourceCode r"><a class="sourceLine" id="cb13-1" title="1">mod &lt;-<span class="st"> </span><span class="kw">lm</span>(yield <span class="op">~</span><span class="st"> </span>cultivar <span class="op">+</span><span class="st"> </span>block, <span class="dt">data =</span> dat)</a></code></pre></div>
 <div id="anova" class="section level2">
 <h2>ANOVA</h2>
-<p>Moreover, we can conduct an ANOVA for this model.</p>
+<p>Thus, we can conduct an ANOVA for this model. As can be seen, the F-test of the ANOVA finds the <code>cultivar</code> effects to be statistically significant (p = 0.037 &lt; 0.05).</p>
 <div class="sourceCode" id="cb14"><pre class="sourceCode r"><code class="sourceCode r"><a class="sourceLine" id="cb14-1" title="1">mod <span class="op">%&gt;%</span><span class="st"> </span><span class="kw">anova</span>()</a></code></pre></div>
 <pre><code>## Analysis of Variance Table
 ## 
@@ -738,7 +738,6 @@ div.tocify {
 ## Residuals  6   2.40    0.40                    
 ## ---
 ## Signif. codes:  0 &#39;***&#39; 0.001 &#39;**&#39; 0.01 &#39;*&#39; 0.05 &#39;.&#39; 0.1 &#39; &#39; 1</code></pre>
-<p>As can be seen, the F-test finds the <code>cultivar</code> effects to be statistically significant (p = 0.037 &lt; 0.05).</p>
 </div>
 <div id="mean-comparisons" class="section level2">
 <h2>Mean comparisons</h2>

diff --git a/CRD_Mead1993.html b/CRD_Mead1993.html
@@ -714,7 +714,7 @@ div.tocify {
 <div class="sourceCode" id="cb11"><pre class="sourceCode r"><code class="sourceCode r"><a class="sourceLine" id="cb11-1" title="1">mod &lt;-<span class="st"> </span><span class="kw">lm</span>(yield <span class="op">~</span><span class="st"> </span>variety, <span class="dt">data =</span> dat)</a></code></pre></div>
 <div id="anova" class="section level2">
 <h2>ANOVA</h2>
-<p>Moreover, we can conduct an ANOVA for this model.</p>
+<p>Thus, we can conduct an ANOVA for this model. As can be seen, the F-test of the ANOVA finds the <code>variety</code> effects to be statistically significant (p&lt;0.001).</p>
 <div class="sourceCode" id="cb12"><pre class="sourceCode r"><code class="sourceCode r"><a class="sourceLine" id="cb12-1" title="1">mod <span class="op">%&gt;%</span><span class="st"> </span><span class="kw">anova</span>()</a></code></pre></div>
 <pre><code>## Analysis of Variance Table
 ## 
@@ -724,7 +724,6 @@ div.tocify {
 ## Residuals 20  367.65   18.38                      
 ## ---
 ## Signif. codes:  0 &#39;***&#39; 0.001 &#39;**&#39; 0.01 &#39;*&#39; 0.05 &#39;.&#39; 0.1 &#39; &#39; 1</code></pre>
-<p>As can be seen, the F-test finds the <code>variety</code> effects to be statistically significant (p = 0.00000094 &lt; 0.05).</p>
 </div>
 <div id="mean-comparisons" class="section level2">
 <h2>Mean comparisons</h2>
